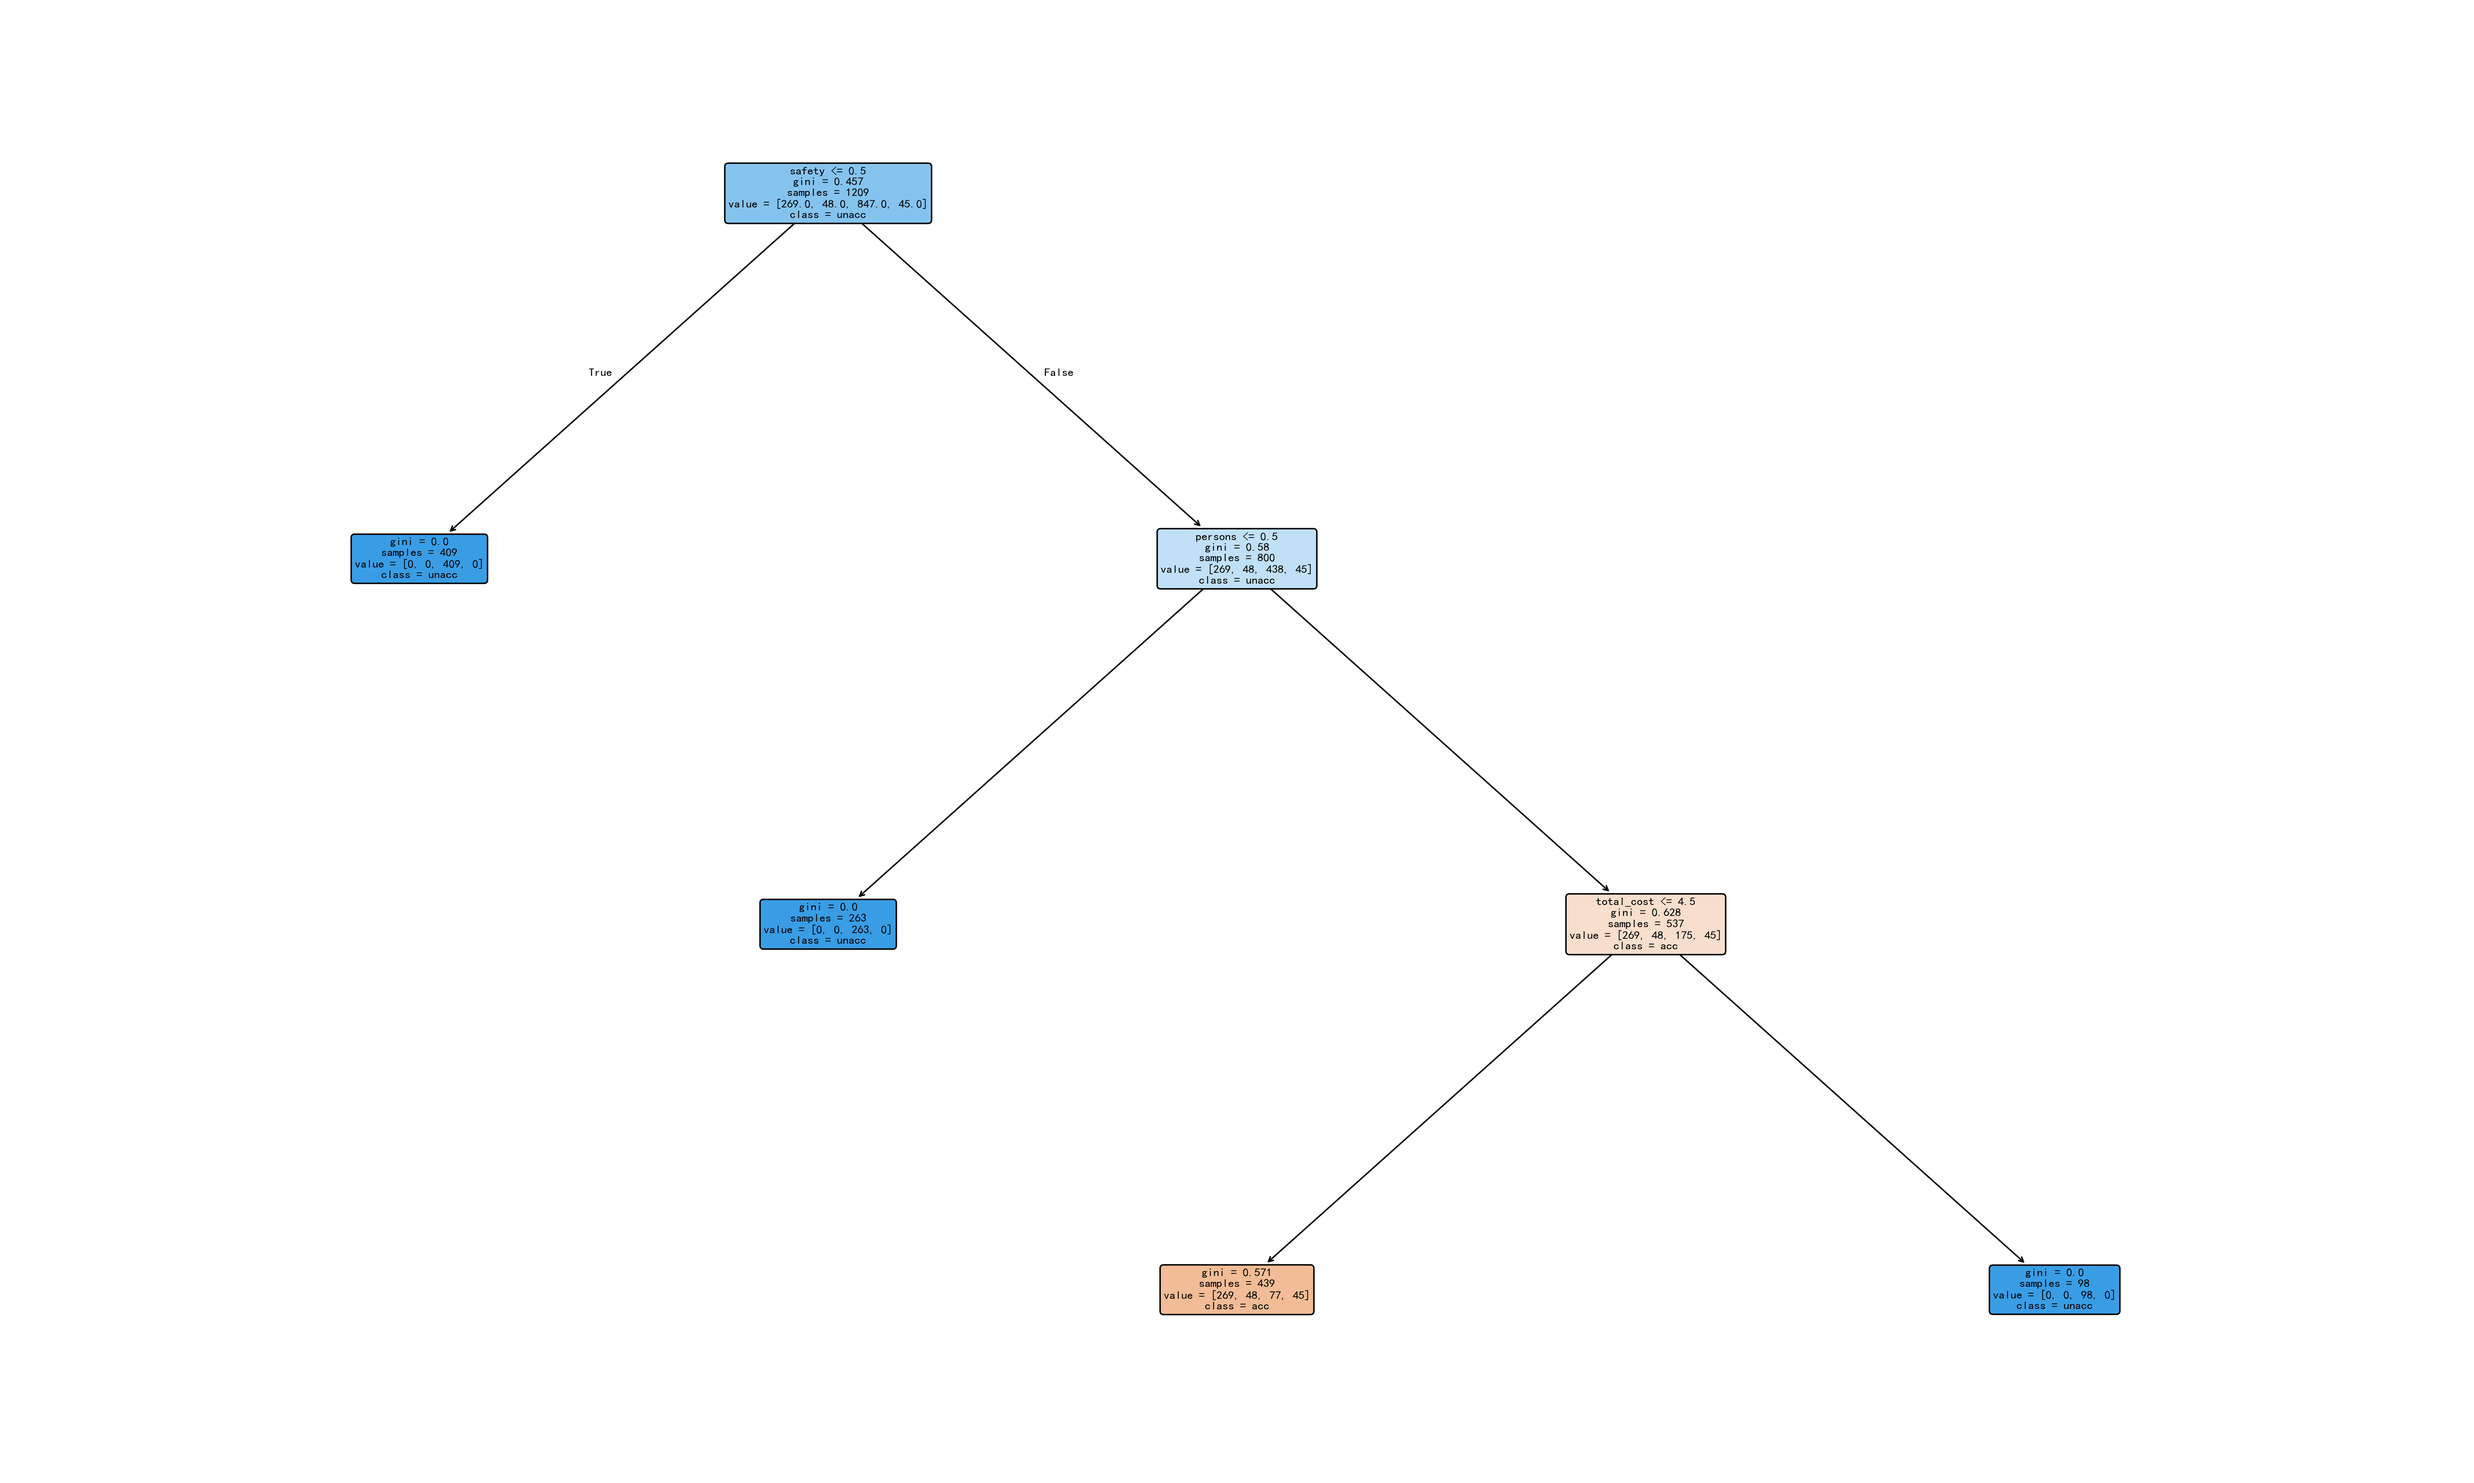
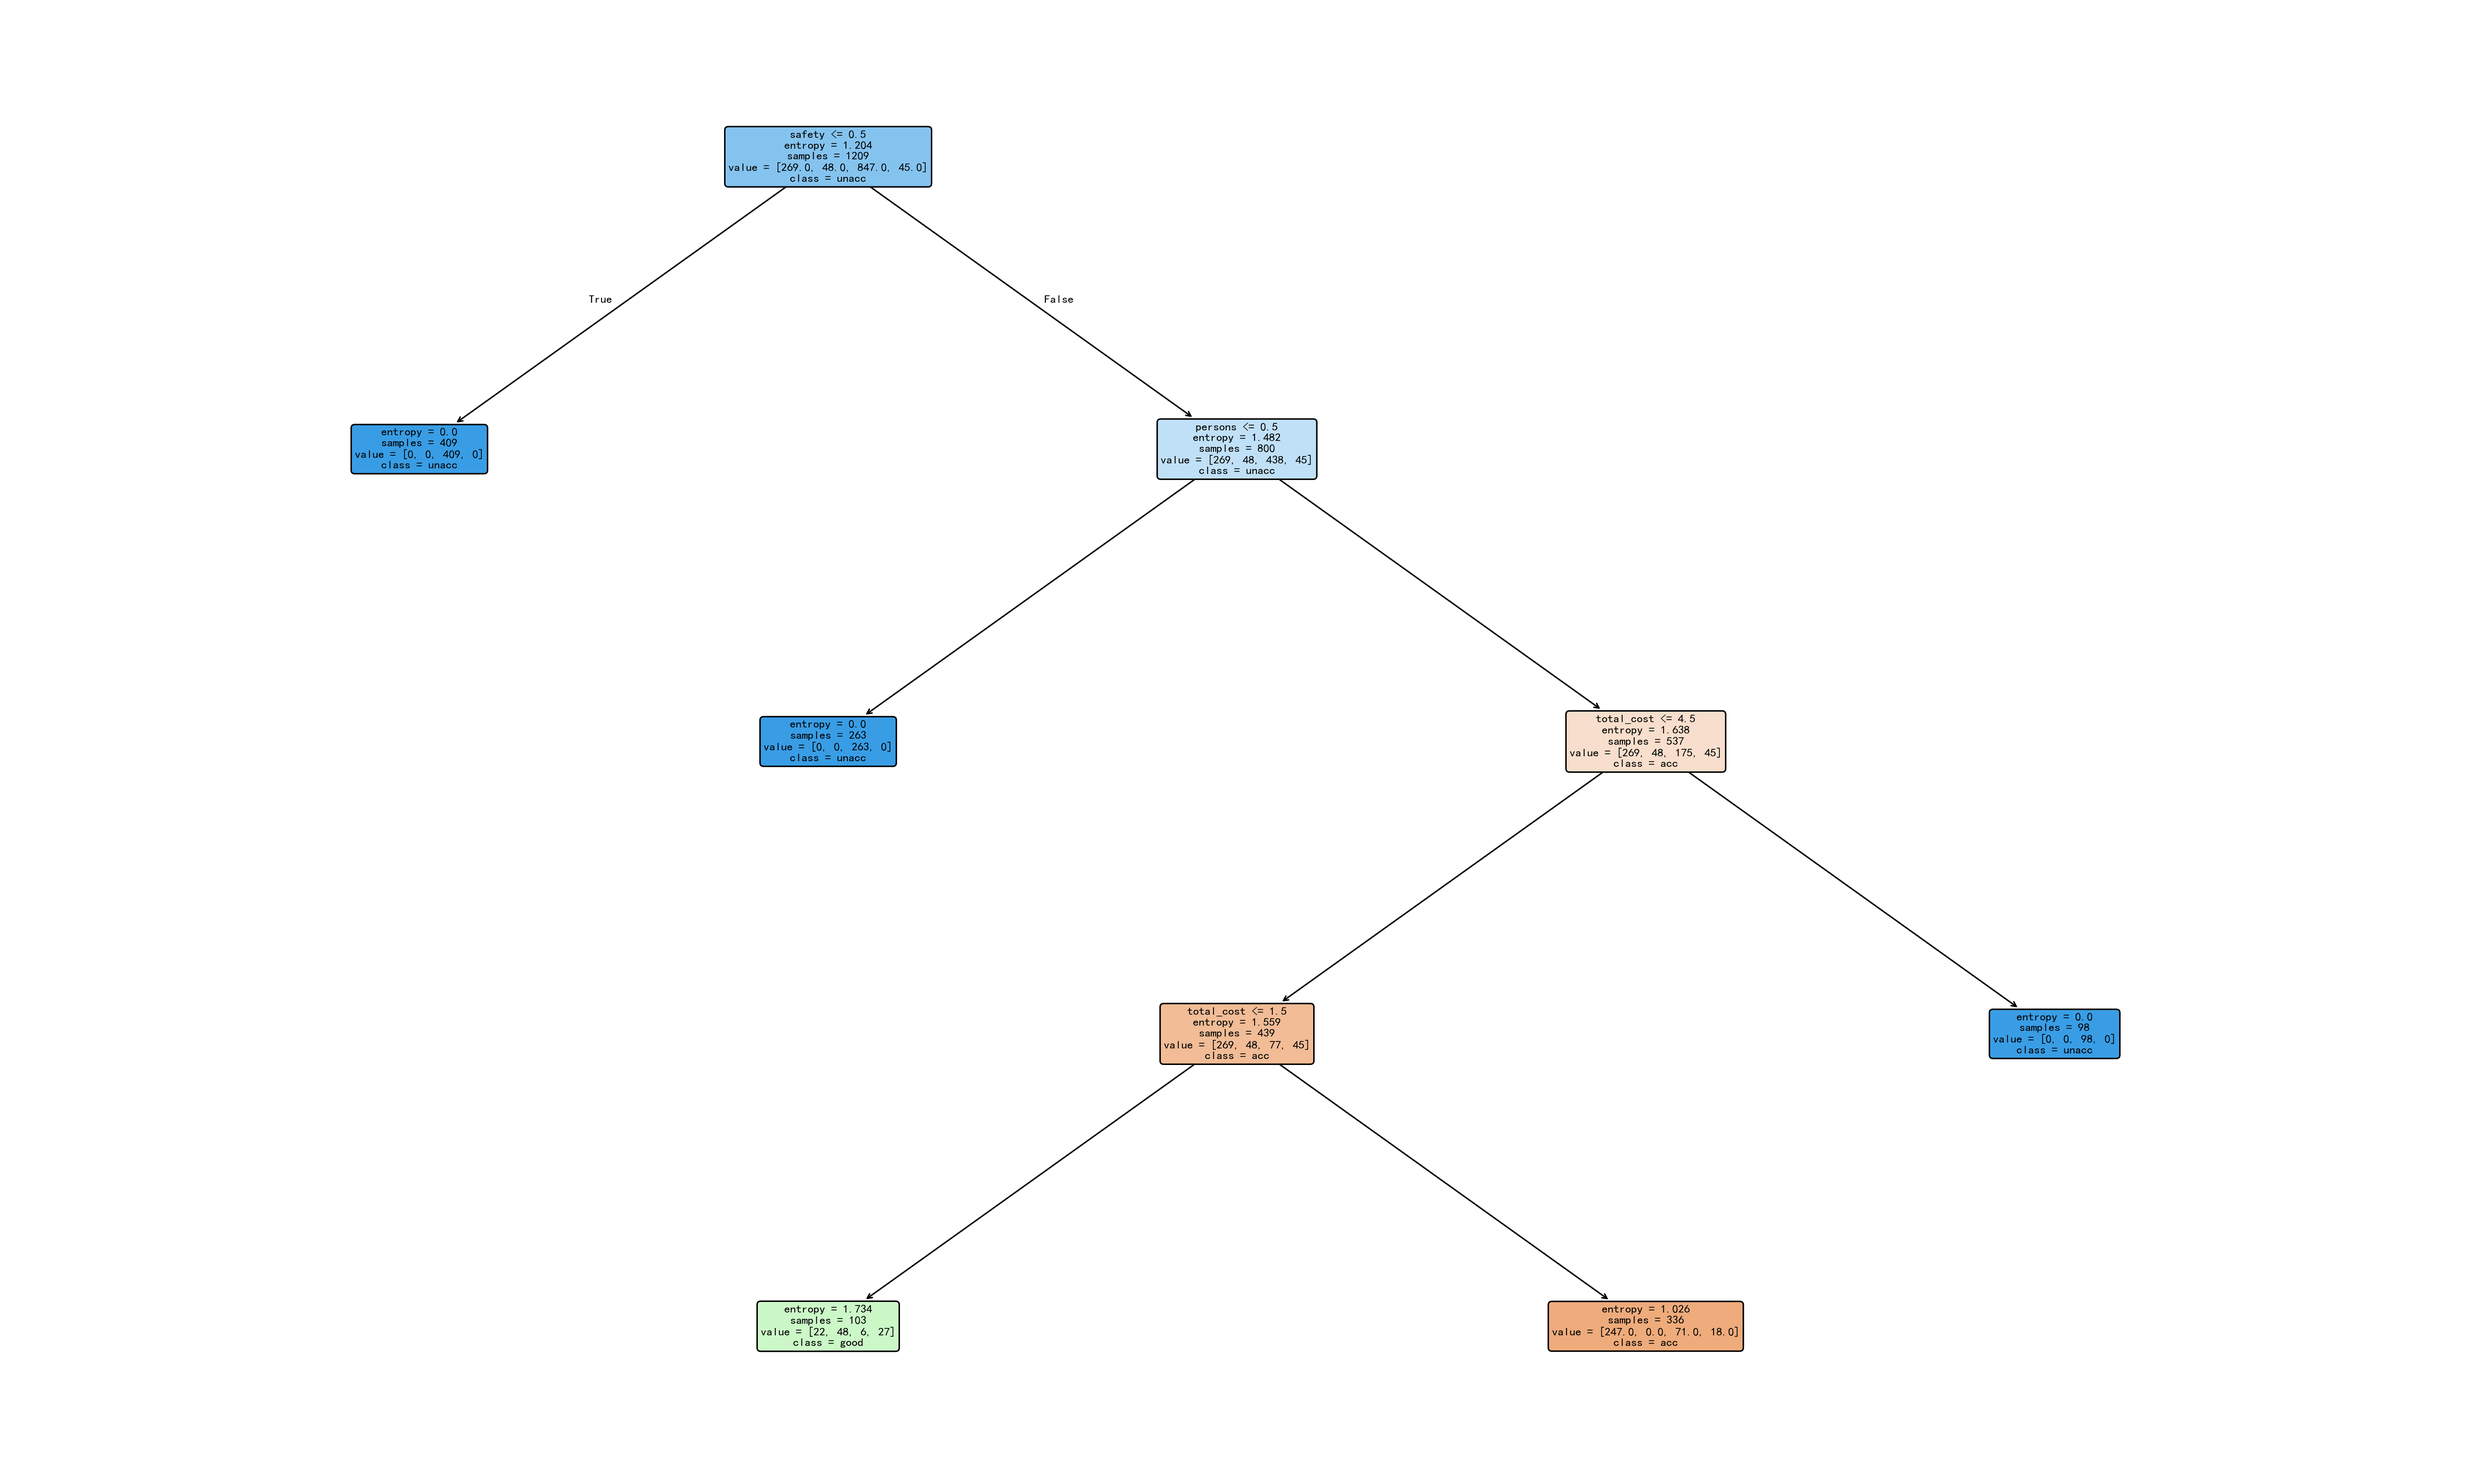
更改路径以及depth

diff --git a/test_tree.py b/test_tree.py
@@ -1,4 +1,5 @@
 # 导入所需依赖库
+import os
 import pandas as pd
 import matplotlib.pyplot as plt
 from sklearn.model_selection import train_test_split, GridSearchCV
@@ -10,7 +11,11 @@ from sklearn.metrics import accuracy_score, classification_report, confusion_mat
 # ------------------------------------------------------------------------------
 # 1. 读取数据集
 # ------------------------------------------------------------------------------
-df = pd.read_csv('car_evaluation.csv', header=None)
+# 获取脚本所在目录的绝对路径
+script_dir = os.path.dirname(os.path.abspath(__file__))
+# 构建数据文件的路径
+data_path = os.path.join(script_dir, 'car_evaluation.csv')
+df = pd.read_csv(data_path, header=None)
 col_names = ['buying', 'maint', 'doors', 'persons', 'lug_boot', 'safety', 'class']
 df.columns = col_names
 
@@ -65,7 +70,7 @@ X_train, X_test, y_train, y_test = train_test_split(
 # ------------------------------------------------------------------------------
 # 先找到单个决策树的最优参数（max_depth=4固定）
 base_tree = DecisionTreeClassifier(
-    max_depth=3,
+    max_depth=4,
     random_state=42
 )
 
@@ -168,5 +173,7 @@ plot_tree(
     rounded=True,
     fontsize=8
 )
-plt.savefig('car_evaluation_best_single_tree.png', bbox_inches='tight')
+# 构建图片保存路径
+image_path = os.path.join(script_dir, 'car_evaluation_best_single_tree.png')
+plt.savefig(image_path, bbox_inches='tight')
 plt.show()
